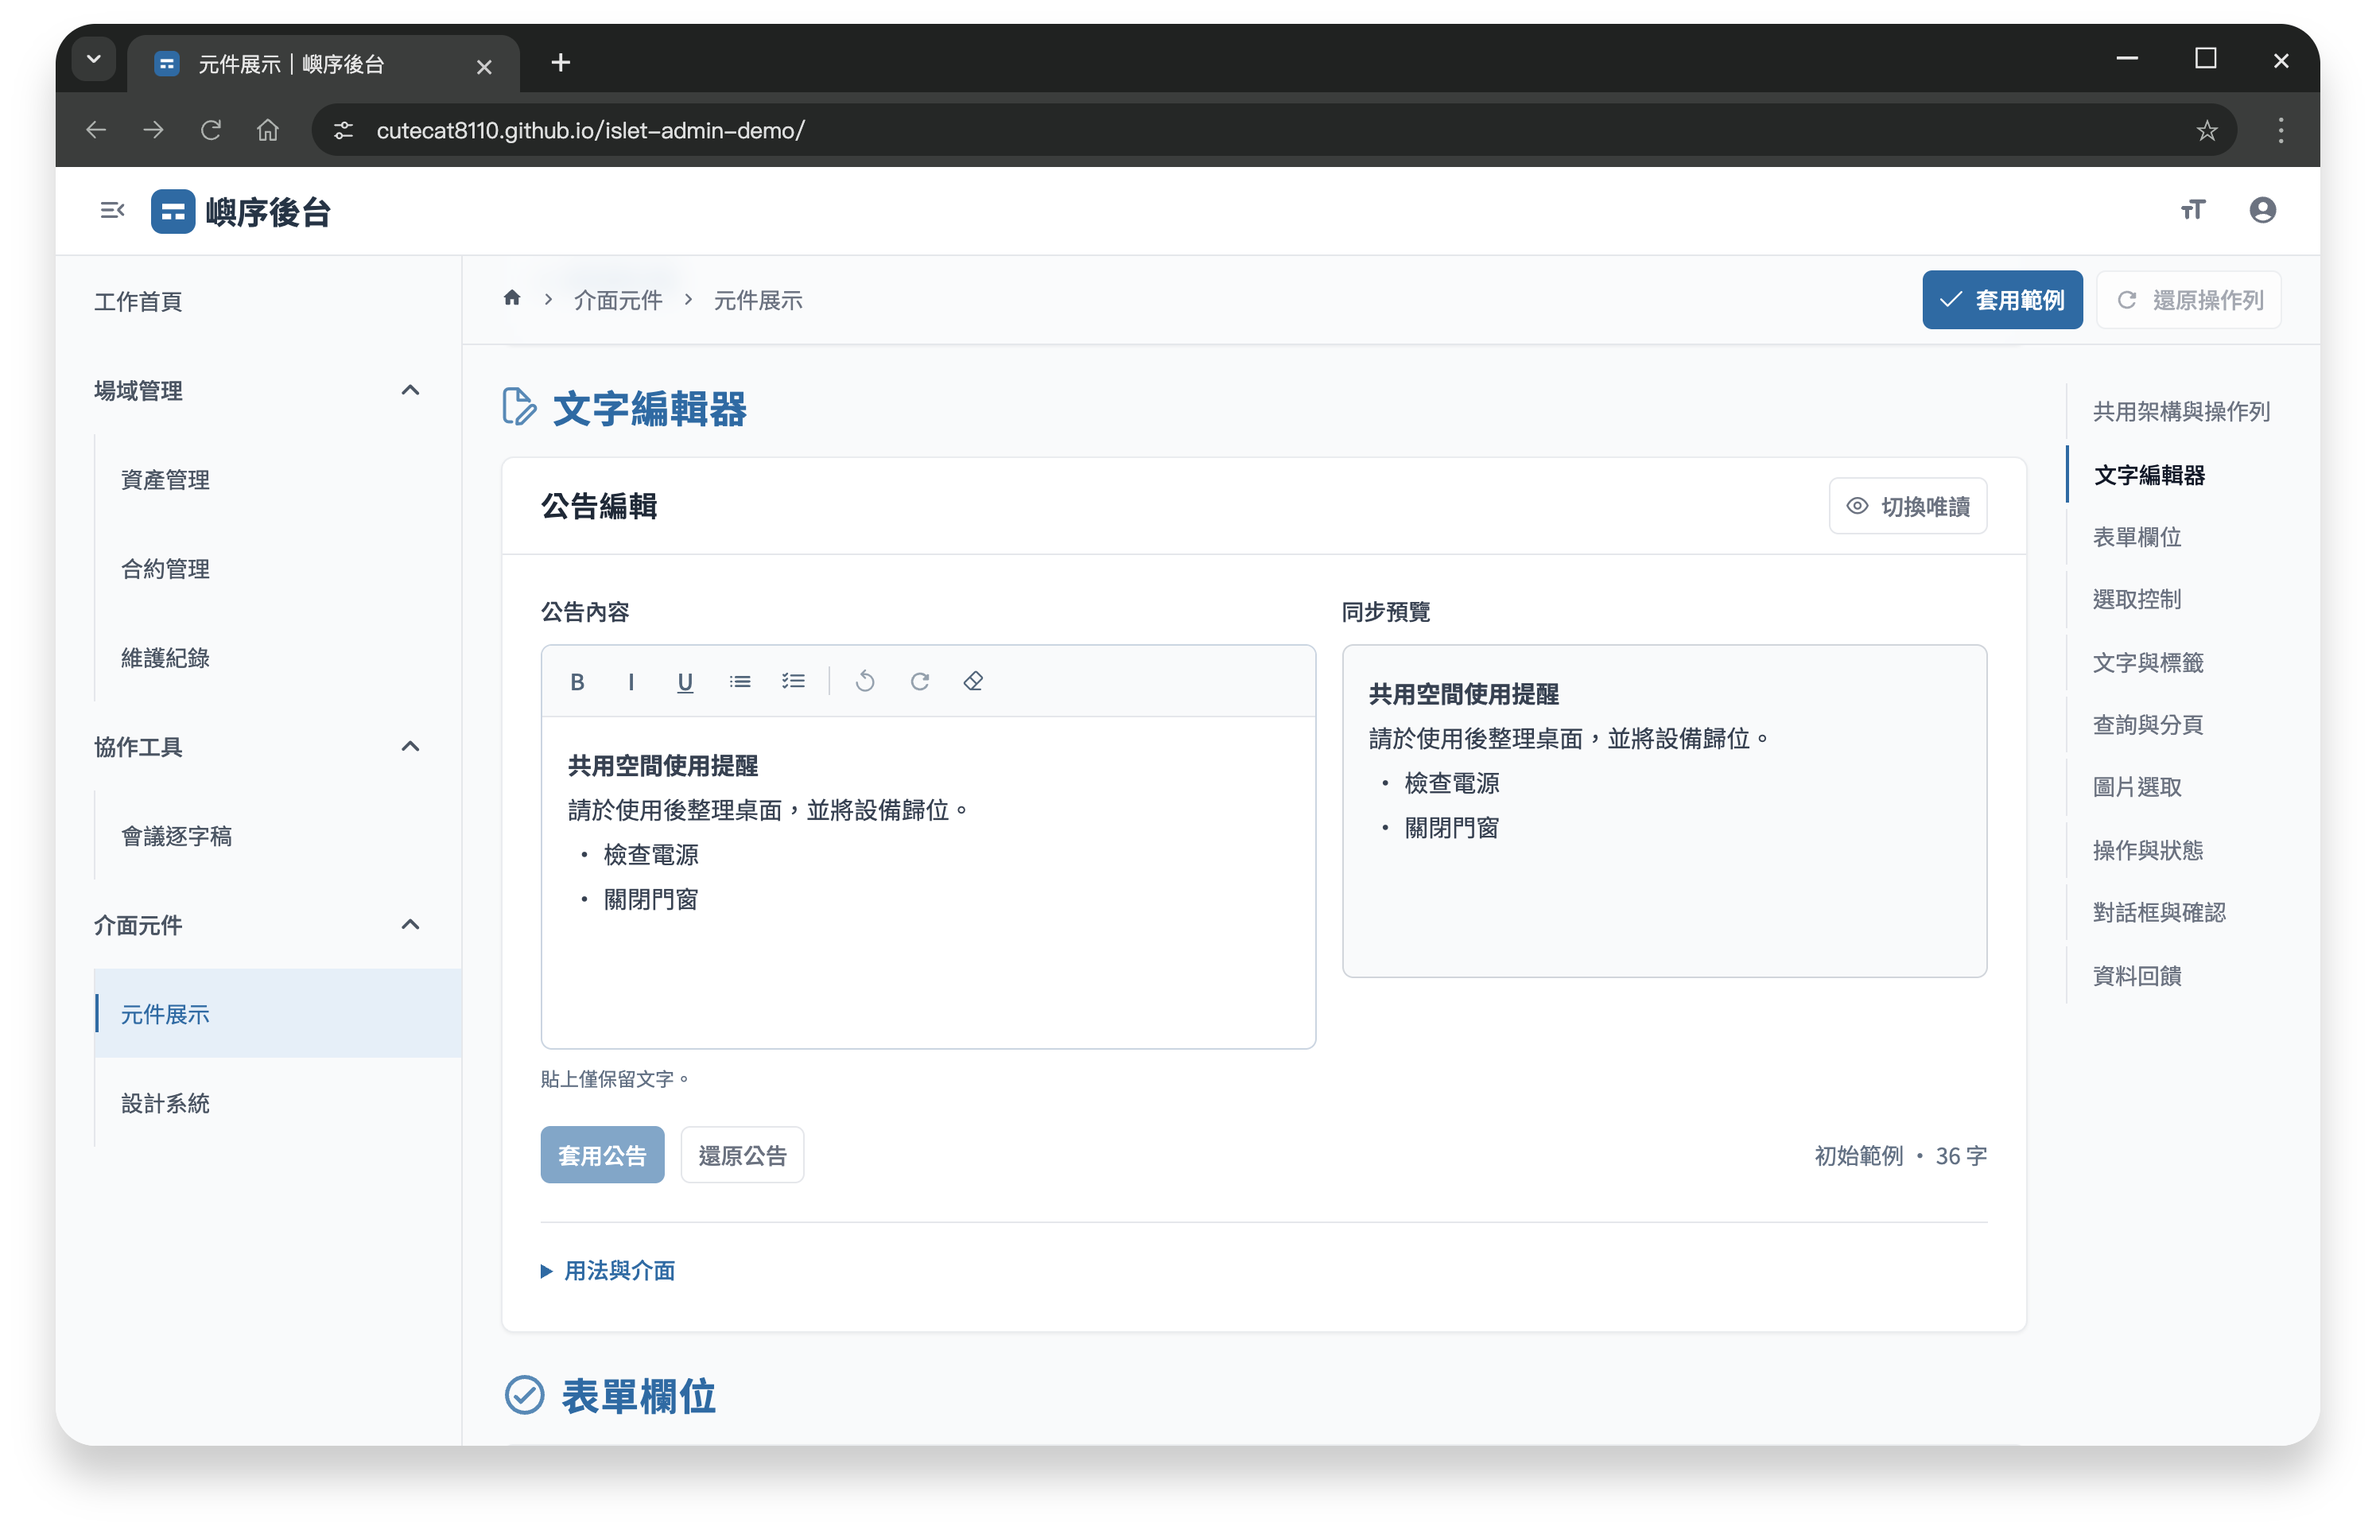
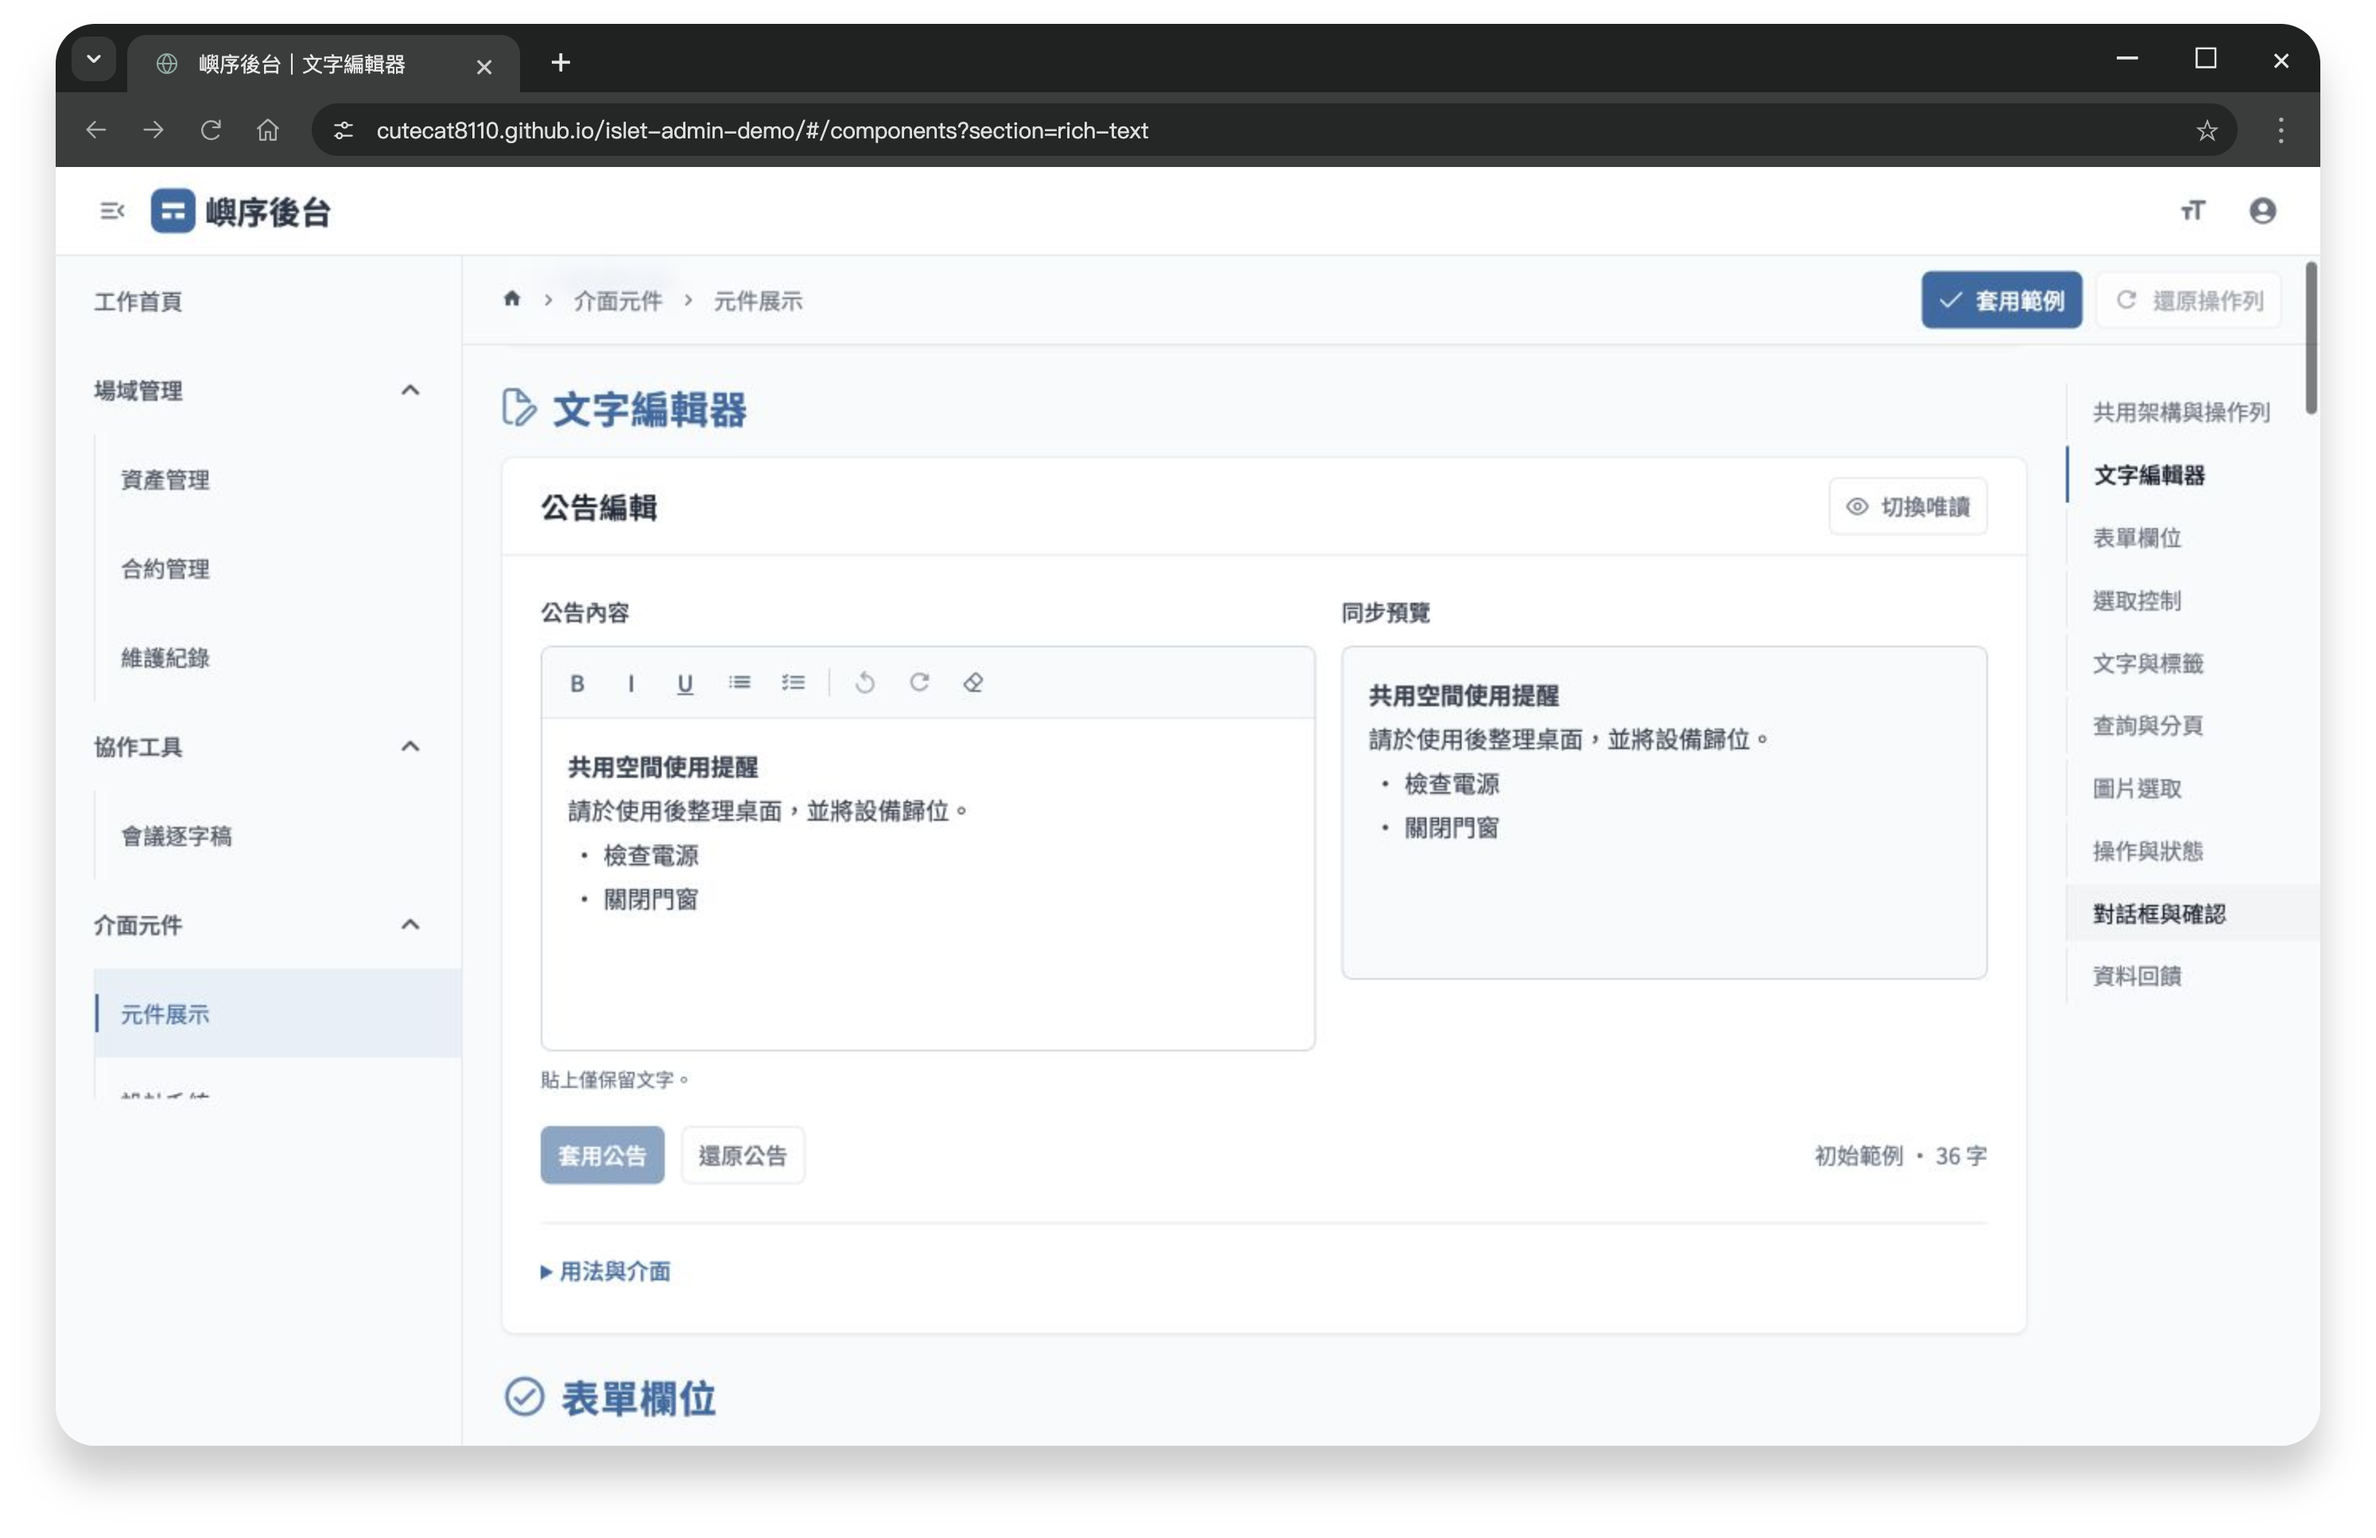
Refresh project overview and screenshots

diff --git a/README.md b/README.md
@@ -1,66 +1,50 @@
 # 嶼序後台｜後台系統與共用架構展示
 
-![Vue 3](https://img.shields.io/badge/Vue-3-42b883?style=flat)
-![TypeScript](https://img.shields.io/badge/TypeScript-5-3178c6?style=flat)
-![PrimeVue](https://img.shields.io/badge/PrimeVue-4-2f6aa3?style=flat)
-![Vite](https://img.shields.io/badge/Vite-7-646cff?style=flat)
-![Quill](https://img.shields.io/badge/Quill-2.0.3-374151?style=flat)
+`Vue 3` · `TypeScript` · `PrimeVue 4` · `Vite` · `Quill 2`
 
-以共用版型、操作列與表單流程，展示可複用的後台前端架構。
+以共用版型、操作列與長表單，串起資產、合約及維護流程。
 
-**[開啟 Demo ↗](https://cutecat8110.github.io/islet-admin-demo/)** · [元件展示](https://cutecat8110.github.io/islet-admin-demo/#/components) · [設計系統](https://cutecat8110.github.io/islet-admin-demo/#/design-system)
+**[開啟 Demo](https://cutecat8110.github.io/islet-admin-demo/)** · [元件展示](https://cutecat8110.github.io/islet-admin-demo/#/components) · [設計系統](https://cutecat8110.github.io/islet-admin-demo/#/design-system)
 
-![資產長表單與共用版型](./docs/images/demo.png)
+![資產長表單與段落目錄](./docs/images/demo.png)
 
-## 展示重點
-
-| 功能 | 體驗重點 |
+| 入口 | 代表操作 |
 | --- | --- |
-| [共用架構](https://cutecat8110.github.io/islet-admin-demo/#/components?section=architecture) | 頁面配置、共用版型、元件與資料操作。 |
-| [操作列](https://cutecat8110.github.io/islet-admin-demo/#/components?section=architecture) | 編輯／唯讀／處理中配置，手機收進「更多功能」。 |
-| [長表單](https://cutecat8110.github.io/islet-admin-demo/#/assets/asset-1/edit) | 分區目錄、欄位驗證、圖片預覽與未儲存提醒。 |
-| [編輯工具](https://cutecat8110.github.io/islet-admin-demo/#/components?section=rich-text) | 文字格式、同步預覽與復原；另可體驗[逐字稿校對](https://cutecat8110.github.io/islet-admin-demo/#/minutes)。 |
+| [共用操作列](https://cutecat8110.github.io/islet-admin-demo/#/components?section=architecture) | 編輯、唯讀、處理中配置；手機「更多功能」 |
+| [資產長表單](https://cutecat8110.github.io/islet-admin-demo/#/assets/asset-1/edit) | 分區目錄、驗證、圖片及關聯資料 |
+| [逐字稿](https://cutecat8110.github.io/islet-admin-demo/#/minutes) | 搜尋定位、列內編輯、段落新增及校對鎖定 |
+| [文字編輯器](https://cutecat8110.github.io/islet-admin-demo/#/components?section=rich-text) | 格式、復原重做、同步預覽與空白驗證 |
 
-建議依 **共用架構 → 操作列 → 長表單 → 編輯工具** 體驗。登入頁點選角色即可帶入帳密。資產、合約與維護為操作示例。
-
-<details>
-<summary>展示角色</summary>
-
-- **管理員**：查詢、新增、編修、刪除與逐字稿校對。
-- **編輯者**：可修改資料，不提供逐字稿校對。
-- **唯讀**：查詢、檢視與匯出。
-
-</details>
+**試用：** 選角色帶入帳密 → 編輯資產 → 校對逐字稿 → 試用共用元件。
 
 <details>
-<summary>更多畫面：逐字稿與文字編輯器</summary>
+<summary>逐字稿與文字編輯器</summary>
 
-![逐字稿搜尋與校對](./docs/images/transcript.png)
+![逐字稿列內編輯與校對](./docs/images/transcript.png)
 ![文字編輯與同步預覽](./docs/images/components.png)
 
 </details>
 
-## 核心技術
-
-Vue 3／TypeScript 組織頁面與元件，PrimeVue 統一介面，Quill 處理文字編輯，Vite 依頁面拆分載入。
-
 <details>
-<summary>查看架構</summary>
+<summary>共用架構</summary>
 
 ```mermaid
 flowchart LR
     A[頁面配置] --> B[共用版型與元件]
     B --> C[資料驗證與操作]
     C --> D[(IndexedDB)]
-    E[展示身分<br/>sessionStorage] --> A
+    E[登入狀態<br/>sessionStorage] --> A
 ```
 
-Vue Router 處理登入後目的地與離頁保護；IndexedDB 保存展示資料與偏好，sessionStorage 保存當前身分。
+Vue Router 管理頁面與離頁提醒；編輯器按需載入。
 
 </details>
 
-## 展示說明
+<details>
+<summary>角色與使用說明</summary>
 
-- 品牌與資料皆為虛構，角色操作由瀏覽器模擬。
-- 修改與圖片只存於目前瀏覽器；元件範例於離頁後清除，已儲存的查詢條件除外。
-- 右上角「重設資料」可恢復初始內容並登出，不影響其他作品。
+管理員可管理資料及校對；編輯者可編修，不提供校對；唯讀可查詢、檢視與匯出。
+
+品牌與資料為虛構，權限由瀏覽器模擬。修改與圖片保存在目前瀏覽器；元件範例離頁清除，已存查詢條件除外。「重設資料」恢復初始內容並登出，不影響其他作品。
+
+</details>
